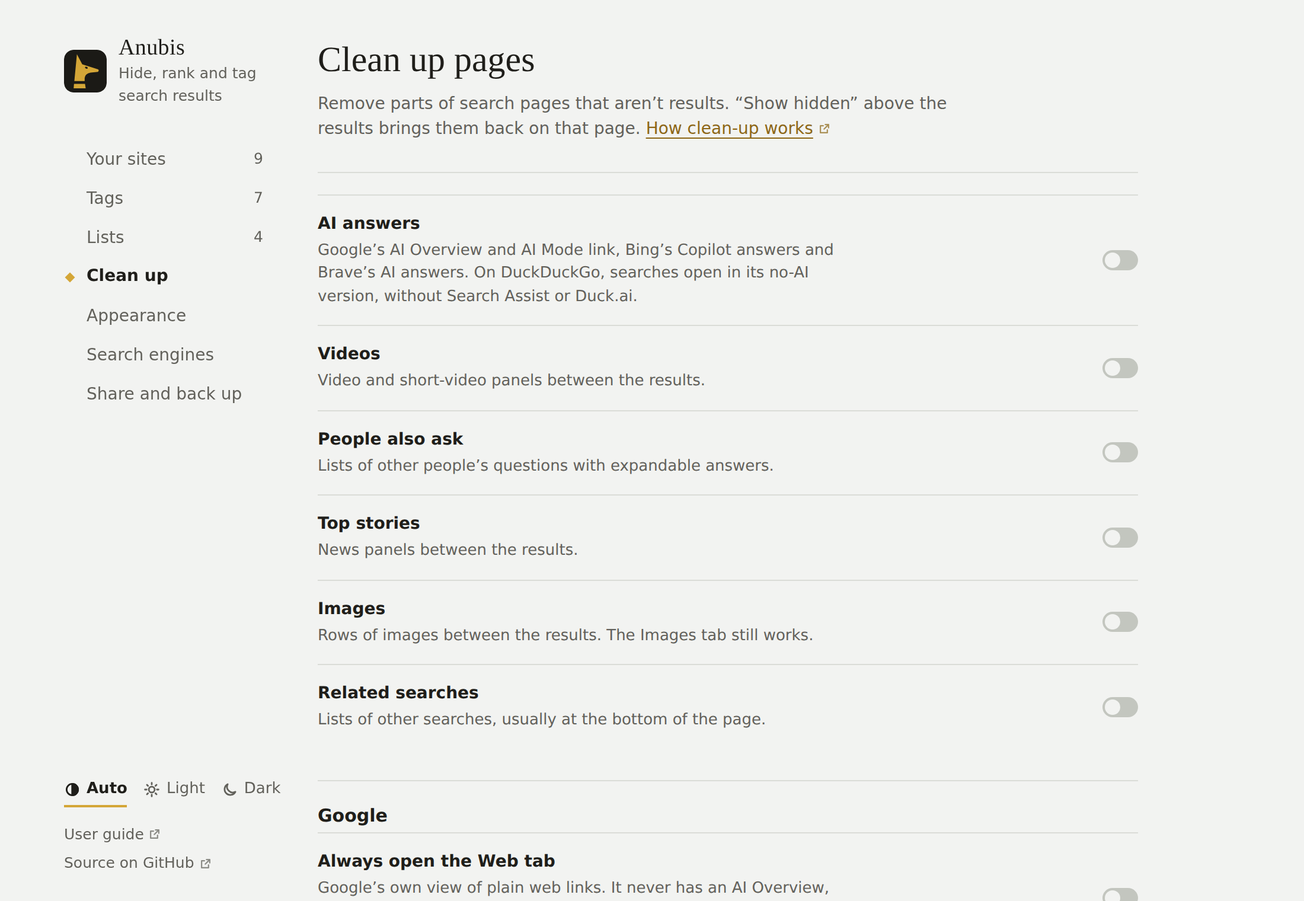
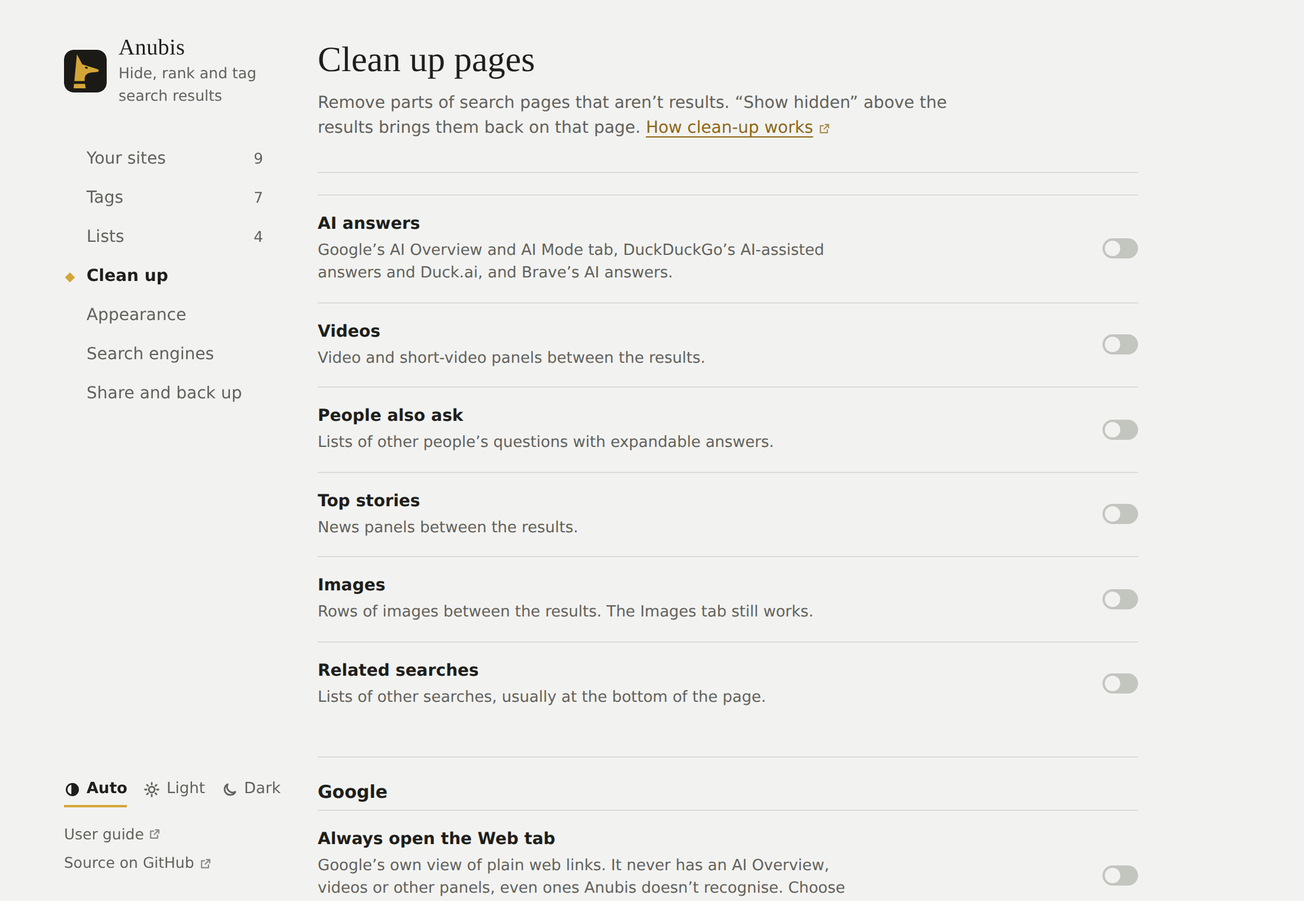
Remove DuckDuckGo's AI answer on the page instead of opening its no-AI version
Keeps people on duckduckgo.com with their settings and saves a second page load. Duck.ai's tab, links and button go like Google's AI Mode tab.

diff --git a/entrypoints/content/cleanup.ts b/entrypoints/content/cleanup.ts
@@ -1,4 +1,4 @@
-import { CLEANUP_SELECTORS, cleanupKindFor, cleanupMarkerFor, type Cleanup, type CleanupKind } from '@/utils/cleanup';
+import { AI_ENTRY_POINTS, CLEANUP_SELECTORS, cleanupKindFor, cleanupMarkerFor, type Cleanup, type CleanupKind } from '@/utils/cleanup';
 import type { EngineDef } from '@/utils/engines';
 import type { FoundResult } from './results';
 
@@ -12,6 +12,9 @@ export interface Clutter {
 const HEADINGS = 'h1, h2, h3, h4, h5, [role="heading"]';
 /** Where a label or marker text can't belong to a block that clean-up removes. */
 const NOT_A_BLOCK = '[data-anubis-result], anubis-summary, header, nav, [role="navigation"], form[role="search"], a, button, script, style, noscript, template, textarea, select, option';
+/** What a tab or button to an AI chat can be, and the item in a row of them that holds one. */
+const CONTROL = 'a, button, [role="link"], [role="button"], [role="tab"], [role="option"], [role="menuitem"]';
+const ROW_ITEM = '[role="listitem"], [role="tab"], [role="option"], [role="menuitem"], li';
 
 /**
  * Blocks in the results column to remove, found three ways and then widened to the
@@ -80,11 +83,21 @@ export function findClutter(engine: EngineDef, results: FoundResult[], wanted: C
     }
   }
 
-  // Google's "AI Mode" tab, next to All, Images and News.
-  if (wanted.ai && engine.id === 'google') {
-    for (const link of document.querySelectorAll<HTMLElement>('a, [role="link"], [role="tab"]')) {
-      if (link.closest('[data-anubis-result]') || !/^AI Mode$/i.test((link.textContent ?? '').trim())) continue;
-      add(link.closest<HTMLElement>('[role="listitem"]') ?? link, 'ai', true);
+  // Tabs and buttons that open an AI chat: Google's "AI Mode" beside All and
+  // Images, DuckDuckGo's Duck.ai. The tab's item in its row goes too, when it
+  // holds little more than the tab.
+  const entry = AI_ENTRY_POINTS[engine.id];
+  if (wanted.ai && entry) {
+    const named = (el: HTMLElement) =>
+      entry.labels.test(el.title.trim()) ||
+      entry.labels.test(el.getAttribute('aria-label')?.trim() ?? '') ||
+      (el.matches(CONTROL) && entry.labels.test((el.textContent ?? '').trim()));
+    for (const el of document.querySelectorAll<HTMLElement>(`${CONTROL}, [title], [aria-label]`)) {
+      if (!(entry.selector && el.matches(entry.selector)) && !named(el)) continue;
+      if (el.closest('[data-anubis-result], anubis-summary')) continue;
+      const control = el.closest<HTMLElement>(CONTROL) ?? el;
+      const item = control.parentElement?.closest<HTMLElement>(ROW_ITEM);
+      add(item && textLength(item) <= textLength(control) + 12 ? item : control, 'ai', true);
     }
   }
 
@@ -224,19 +237,10 @@ function safeToRemove(block: HTMLElement, column: Column, searchBox: Element | n
 const WEB_TAB_KEY = 'anubis:all-tab';
 
 /**
- * Where to send this page instead, or undefined. "AI answers" opens DuckDuckGo's
- * no-AI version; "Always open the Web tab" adds Google's `udm=14`, unless you
- * chose the All tab for this search.
+ * Where to send this page instead, or undefined: "Always open the Web tab" adds
+ * Google's `udm=14`, unless you chose the All tab for this search.
  */
-export function redirectFor(engine: EngineDef, url: URL, cleanup: Cleanup, googleWebTab: boolean): string | undefined {
-  if (engine.id === 'duckduckgo' && cleanup.ai && url.hostname !== 'noai.duckduckgo.com' && engine.isResultsPage(url)) {
-    const next = new URL(url);
-    next.hostname = 'noai.duckduckgo.com';
-    // safe.duckduckgo.com always has strict safe search; keep it, with DuckDuckGo's
-    // own parameter for it, unless the search already chose a level.
-    if (url.hostname === 'safe.duckduckgo.com' && !next.searchParams.has('kp')) next.searchParams.set('kp', '1');
-    return next.href;
-  }
+export function redirectFor(engine: EngineDef, url: URL, googleWebTab: boolean): string | undefined {
   if (engine.id === 'google' && googleWebTab && url.pathname === '/search' && !url.searchParams.has('udm') && !url.searchParams.has('tbm')) {
     let chosen: string | null = null;
     try {

diff --git a/tests/cleanup.test.ts b/tests/cleanup.test.ts
@@ -1,6 +1,6 @@
 import { describe, expect, it } from 'vitest';
 import { redirectFor } from '@/entrypoints/content/cleanup';
-import { cleanupKindFor, cleanupMarkerFor, describeRemoved, NO_CLEANUP } from '@/utils/cleanup';
+import { AI_ENTRY_POINTS, cleanupKindFor, cleanupMarkerFor, describeRemoved, NO_CLEANUP } from '@/utils/cleanup';
 import { ENGINES } from '@/utils/engines';
 import type { PageStats } from '@/utils/messages';
 import { getSettings, settingsItem } from '@/utils/storage';
@@ -58,31 +58,26 @@ describe('summary with clean-up', () => {
 });
 
 describe('clean-up redirects', () => {
-  it('sends DuckDuckGo searches to its no-AI version when AI answers are removed', () => {
-    const url = new URL('https://duckduckgo.com/?q=anubis&ia=web');
-    expect(redirectFor(engine('duckduckgo'), url, { ...NO_CLEANUP, ai: true }, false)).toBe('https://noai.duckduckgo.com/?q=anubis&ia=web');
-    expect(redirectFor(engine('duckduckgo'), url, NO_CLEANUP, false)).toBeUndefined();
-    expect(redirectFor(engine('duckduckgo'), new URL('https://noai.duckduckgo.com/?q=anubis'), { ...NO_CLEANUP, ai: true }, false)).toBeUndefined();
+  it('leaves DuckDuckGo where it is, with its settings: AI answers are removed on the page', () => {
+    for (const url of ['https://duckduckgo.com/?q=anubis&ia=web', 'https://safe.duckduckgo.com/?q=anubis', 'https://start.duckduckgo.com/?q=anubis']) {
+      expect(redirectFor(engine('duckduckgo'), new URL(url), true)).toBeUndefined();
+    }
   });
 
-  it('opens the no-AI version from DuckDuckGo’s other addresses, keeping safe.’s strict safe search', () => {
-    const ai = { ...NO_CLEANUP, ai: true };
-    const ddg = engine('duckduckgo');
-    expect(redirectFor(ddg, new URL('https://start.duckduckgo.com/?q=anubis'), ai, false)).toBe('https://noai.duckduckgo.com/?q=anubis');
-    expect(redirectFor(ddg, new URL('https://safe.duckduckgo.com/?q=anubis'), ai, false)).toBe('https://noai.duckduckgo.com/?q=anubis&kp=1');
-    expect(redirectFor(ddg, new URL('https://safe.duckduckgo.com/?q=anubis&kp=-1'), ai, false)).toBe('https://noai.duckduckgo.com/?q=anubis&kp=-1');
-    // The home page isn't a search.
-    expect(redirectFor(ddg, new URL('https://safe.duckduckgo.com/'), ai, false)).toBeUndefined();
+  it('knows the AI chat tabs and buttons by name', () => {
+    expect(AI_ENTRY_POINTS.google!.labels.test('AI Mode')).toBe(true);
+    for (const name of ['Duck.ai', 'Ask Duck.ai', 'Search Assist']) expect(AI_ENTRY_POINTS.duckduckgo!.labels.test(name), name).toBe(true);
+    for (const name of ['Duck.ai settings', 'DuckDuckGo', 'All']) expect(AI_ENTRY_POINTS.duckduckgo!.labels.test(name), name).toBe(false);
   });
 
   it('opens Google’s Web tab only from the All tab', () => {
     const google = engine('google');
-    expect(redirectFor(google, new URL('https://www.google.com/search?q=anubis'), NO_CLEANUP, true)).toBe(
+    expect(redirectFor(google, new URL('https://www.google.com/search?q=anubis'), true)).toBe(
       'https://www.google.com/search?q=anubis&udm=14',
     );
-    expect(redirectFor(google, new URL('https://www.google.com/search?q=anubis&udm=2'), NO_CLEANUP, true)).toBeUndefined();
-    expect(redirectFor(google, new URL('https://www.google.com/search?q=anubis&tbm=nws'), NO_CLEANUP, true)).toBeUndefined();
-    expect(redirectFor(google, new URL('https://www.google.com/search?q=anubis'), NO_CLEANUP, false)).toBeUndefined();
+    expect(redirectFor(google, new URL('https://www.google.com/search?q=anubis&udm=2'), true)).toBeUndefined();
+    expect(redirectFor(google, new URL('https://www.google.com/search?q=anubis&tbm=nws'), true)).toBeUndefined();
+    expect(redirectFor(google, new URL('https://www.google.com/search?q=anubis'), false)).toBeUndefined();
   });
 });
 

diff --git a/utils/cleanup.ts b/utils/cleanup.ts
@@ -33,7 +33,7 @@ export const CLEANUP: CleanupDef[] = [
   {
     id: 'ai',
     label: 'AI answers',
-    hint: 'Google’s AI Overview and AI Mode tab, and Brave’s AI answers. On DuckDuckGo, searches open in its no-AI version, without Search Assist or Duck.ai.',
+    hint: 'Google’s AI Overview and AI Mode tab, DuckDuckGo’s AI-assisted answers and Duck.ai, and Brave’s AI answers.',
     one: 'an AI answer',
     many: 'AI answers',
     headings: [
@@ -125,12 +125,28 @@ export const CLEANUP: CleanupDef[] = [
 /**
  * Selectors for blocks a heading can't identify, per engine. The block is the
  * element itself, or the results-column block around it. These come from
- * community filter lists. Google's `.M8OgIe` and `.YzCcne` were seen on live
- * pages (2026-09-29); the rest haven't been checked.
+ * community filter lists (DuckDuckGo's from EasyList's AI list). Google's
+ * `.M8OgIe` and `.YzCcne` were seen on live pages (2026-09-29); the rest haven't
+ * been checked.
  */
 export const CLEANUP_SELECTORS: Record<string, Partial<Record<CleanupKind, string>>> = {
   google: { ai: '[data-attrid="AIOverview"], .M8OgIe, .YzCcne', questions: '.related-question-pair' },
+  duckduckgo: { ai: '[data-testid="duckassist-answer-content"], [data-react-module-id="wikinlp"]' },
   brave: { ai: '#summarizer' },
+};
+
+/**
+ * Tabs, links and buttons that open an engine's AI chat: Google's AI Mode,
+ * DuckDuckGo's Duck.ai. They go with AI answers but aren't counted, since they
+ * aren't content. Found by their whole text, title or label, or by selectors
+ * from EasyList's AI list where there may be no label.
+ */
+export const AI_ENTRY_POINTS: Record<string, { labels: RegExp; selector?: string }> = {
+  google: { labels: /^AI Mode$/i },
+  duckduckgo: {
+    labels: /^((Ask )?Duck\.ai|Search Assist)$/i,
+    selector: 'a[href*="ia=chat"], [data-testid="aichat-button"], [data-ssg-id="ai-searchbox-chat-submit"], [data-ssg-id="ask-duck-ai-submit"]',
+  },
 };
 
 const normalize = (text: string) => text.replace(/\s+/g, ' ').trim().toLowerCase();

diff --git a/entrypoints/content/index.ts b/entrypoints/content/index.ts
@@ -47,12 +47,11 @@ export default defineContentScript({
       return;
     }
 
-    // Clean-up that works by sending the page elsewhere: DuckDuckGo's no-AI version,
-    // Google's Web tab. Checked again on each pass, as both engines can change the
-    // search without reloading.
+    // Clean-up that works by sending the page elsewhere: Google's Web tab. Checked
+    // again on each pass, as Google can change the search without reloading.
     const redirected = () => {
       if (!rules.settings.enabled || rules.settings.engines[engine.id] === false) return false;
-      const to = redirectFor(engine, new URL(location.href), rules.settings.cleanup, rules.settings.googleWebTab);
+      const to = redirectFor(engine, new URL(location.href), rules.settings.googleWebTab);
       if (!to || to === location.href) return false;
       location.replace(to);
       return true;

diff --git a/docs/experiments.md b/docs/experiments.md
@@ -23,7 +23,7 @@ Checked on live pages on 2026-09-29, with the Chrome build loaded in automated (
 - **Results and redirects:** every engine that loaded found all its results, put the button on each, and applied the test list correctly, which means redirect links resolved to the real site: DuckDuckGo HTML and Lite, Bing's `/ck/a`, Yahoo's `/RU=`, and Startpage, Ecosia and Brave's direct links.
 - **Load more results worked** on DuckDuckGo (11 results to 26, by pressing `#more-results`) and Brave (20 to 40, `offset=1`, which matches Brave's own Next link).
 - **Load more results failed without saying why** on Bing, Ecosia and Yahoo. Their next-page selectors and parameters are right (Bing's Next link is `a.sb_pagN` with `first=11`, Ecosia's is `p=1`, Yahoo's is `a.next`), but the page Anubis fetches came back as a bot check: Bing's Turnstile page ("One last step", status 200, so it parses as a page with no results), Ecosia's Cloudflare firewall (403, and navigating to page 2 directly was challenged too), and Yahoo redirecting to a `_bv/v.gif` beacon (500). A 200 challenge page looks the same as the last page of results, so the button just disappears. **To do:** recognise an empty or challenged page and say so in the summary ("Bing asked to confirm you're not a robot"), and check these three engines again in an everyday browser.
-- **DuckDuckGo loses your settings on its no-AI version.** DuckDuckGo stores settings as cookies for `duckduckgo.com` only: changing the region set `l=uk-en` on `duckduckgo.com`, and `noai.duckduckgo.com` went back to the region its location suggests. So "AI answers" quietly resets region, theme and the rest. **To do:** carry the settings over, for example as DuckDuckGo's documented URL parameters (`kl`, `kae`…), which share the cookies' names.
+- **DuckDuckGo loses your settings on its no-AI version.** DuckDuckGo stores settings as cookies for `duckduckgo.com` only: changing the region set `l=uk-en` on `duckduckgo.com`, and `noai.duckduckgo.com` went back to the region its location suggests. So "AI answers" quietly reset region, theme and the rest. **Resolved (2026-09-29):** Anubis no longer sends DuckDuckGo searches there; see "DuckDuckGo stays put" under Clean up pages.
 - **DuckDuckGo's Wikipedia panel** (`li[data-layout="about"]`, in the results list) counts as a result, linked to Wikipedia. Hiding wikipedia.org hides it. That seems reasonable, but it's a panel, not a result.
 - **Brave's AI answer** is `#llm-snippet` inside `#mixed-top`, not `#summarizer` (which wasn't on the page). It has no heading; clean-up removed it through its disclaimer, "AI-generated answer. Please verify critical facts.", which starts with the `AI-generated answer` marker.
 - **Bing's AI answer is not removed.** It is `li.b_ans.b_top` at the top of `#b_results`, with the answer in `.cht_container` and a `.cht_disclaimer` element. Its only label is `aria-label="AI Overview"`, which clean-up doesn't read, and its visible `h2` is the answer's first sentence. It didn't appear for every query. **To do:** accept `aria-label` text as a label, or add `.cht_container` to Bing's selectors.
@@ -45,6 +45,7 @@ Clean-up on Google, confirmed from a live results page on 2026-09-29 (the troubl
 
 Still to check for clean-up:
 
+- DuckDuckGo: the AI answer (`[data-testid="duckassist-answer-content"]` in the results list's first item, or the `wikinlp` module) and the Duck.ai tab, links and search-box button (`ia=chat` links, `[data-testid="aichat-button"]`, `[data-ssg-id="ai-searchbox-chat-submit"]`). These come from EasyList's AI list, not a live page: this environment's network policy blocks DuckDuckGo.
 - Google: that "AI Overview", "Videos", "People also ask", "Top stories" and "Related searches" are still headings (`h1`–`h4` or `role="heading"`) at the top of their blocks, and that the blocks sit in `#rso`, `#botstuff` or the `role="main"` column. That the AI Mode tab is a link with that exact text in a `role="navigation"` or `role="list"` element. That choosing All from the Web tab lands on a `/search` URL without `udm`, so Anubis leaves it alone.
 - The selectors `[data-attrid="AIOverview"]` and `.related-question-pair` (Google) come from community filter lists. `#summarizer` (Brave) wasn't on the page on 2026-09-29; see above. DuckDuckGo's settings on `noai.` and Bing's and Brave's AI answers were checked on 2026-09-29, above.
 
@@ -133,8 +134,9 @@ Asked for: a global option to force-remove AI answers (Gemini's AI Overview, Duc
 
 - **Tried first, rejected:** class-name selectors from community uBlock filter lists (for example `.M8OgIe`, `.hdzaWe` and `[data-mcpr]` for Google's AI Overview). They are the usual approach, but the lists warn that Google rotates these names, the problem the README describes for results.
 - **Shipped:** blocks are found from their visible heading ("AI Overview", "Videos", "People also ask"…, matched whole and ignoring case, with common translations in `utils/cleanup.ts`), then widened to the block in the results column. The column is the results' own list, the engine's boundary (`#rso`, `role="main"`…), or an element inside that boundary which also holds results. A heading that never reaches the column, like "Images" in Google's side panel, is left alone, and a block that contains a result or the search box is never removed. When the heading's block sits next to another heading of the same or higher level, only that section goes: "Images" inside a panel in the column removes the image row, not the panel. A first version of that rule stopped before checking the column and removed the side panel's image row too; the `cleanup` e2e part covers both. A few selectors from filter lists back the headings up where a heading isn't enough.
-- **Forcing it:** removing an element after the engine renders it can always be outrun by a redesign, so the switches that stop AI answers at the source are used too. "AI answers" sends DuckDuckGo searches to `noai.duckduckgo.com`, DuckDuckGo's own no-AI version, which has no Search Assist or Duck.ai. For Google, "Always open the Web tab" adds `udm=14`, Google's own filter for plain web links (the Web tab under More). It's a separate switch because it also drops everything else that isn't a link. Choosing All from the Web tab is remembered for that search in the tab's `sessionStorage`, so it isn't bounced straight back.
-- **DuckDuckGo's other addresses (2026-09-29):** the redirect only ran on `duckduckgo.com`, although `start.` and `safe.` are the same engine. Both now open the no-AI version too. `safe.duckduckgo.com` always uses strict safe search, which `noai.` wouldn't know about, so the redirect adds `kp=1`, DuckDuckGo's documented parameter for it, unless the search already sets `kp`. Not yet checked on the live `noai.` page.
+- **Forcing it:** removing an element after the engine renders it can always be outrun by a redesign, so the switches that stop AI answers at the source are used too. "AI answers" sent DuckDuckGo searches to `noai.duckduckgo.com`, DuckDuckGo's own no-AI version, which has no Search Assist or Duck.ai (dropped later; see "DuckDuckGo stays put"). For Google, "Always open the Web tab" adds `udm=14`, Google's own filter for plain web links (the Web tab under More). It's a separate switch because it also drops everything else that isn't a link. Choosing All from the Web tab is remembered for that search in the tab's `sessionStorage`, so it isn't bounced straight back.
+- **Tried the same day, then dropped:** the redirect only ran on `duckduckgo.com`, so `start.` and `safe.` were sent too, with `kp=1` (DuckDuckGo's documented strict safe search parameter) for `safe.`, which `noai.` wouldn't otherwise know about.
+- **DuckDuckGo stays put (2026-09-29):** the redirect cost more than it saved. DuckDuckGo keeps its settings in cookies for `duckduckgo.com` only, so `noai.` reset region, theme and safe search; every search loaded twice; and the address changed under people. DuckDuckGo documents URL parameters for its settings but none for AI (checked its `settings/params.md`), and carrying settings over would mean reading undocumented cookie names. So "AI answers" now removes DuckDuckGo's AI answer on the page, like Google's and Brave's: by its "Search Assist" label where there is one, and by EasyList's selectors (`duckassist-answer-content`, the `wikinlp` module). Duck.ai's tab, links and search-box button go the way Google's AI Mode tab does, and like it aren't counted, since they aren't content (`AI_ENTRY_POINTS` in `utils/cleanup.ts`: whole-text, title or label matches, plus EasyList's selectors). A tab's item in its row goes too when it holds little more than the tab. The `ai=1` DuckDuckGo mock models all of it, and its check failed on the previous build, which left for `noai.`. `noai.duckduckgo.com` itself still works with Anubis for anyone who opens it.
 - **Not used:** a `noai=1` URL parameter for DuckDuckGo, mentioned by one blog but not in DuckDuckGo's documented parameters (`duckduckgo-help-pages/_docs/settings/params.md`). Brave's `summary=0` parameter, which Brave community threads report no longer works. A `declarativeNetRequest` rule that rewrites Google URLs before the page loads: it's faster, but it needs a new permission, and the redirect from the content script is quick enough.
 - **Bug found in use:** "AI answers" didn't remove Google's AI Overview. Only heading elements were read as labels, but the label can be a plain `div` beside an icon, and an icon's `<title>` adds text that breaks an exact match. The guard against removing the search box also refused any block with a `q` field, which a follow-up box inside the Overview may have. Now any short text node that is a label counts, as does text only an AI answer has ("AI responses may include mistakes"), selectors from community filter lists (`.M8OgIe`, `.YzCcne`) back them up, and only the page's first search box is protected. An `aiLabel` Google mock covers this; the previous build removes nothing on it. Google's real markup is still unconfirmed; the troubleshooting page asks for its structure (tags, classes and roles, no text).
 - **Bug found in use:** "Videos" removed only the heading above a video panel. Each video has a title heading in a link, so Anubis took the videos for results, and clean-up refused to remove a block containing results. Worse, the sitelink rule merged the videos into one "result" (they share a site), which swallowed the panel's heading too. Now only the main list of results (the list holding the most) is protected, results inside a removed panel go with it and leave the summary's counts, and sitelinks are only merged under a result that shows its address, which videos don't. The `aiLabel` Google mock has such a panel; the previous build leaves it in place.

diff --git a/docs/guide/troubleshooting.md b/docs/guide/troubleshooting.md
@@ -21,14 +21,14 @@ Please don't attach a saved copy of the page. Search pages include your account 
 
 Chrome hides new extensions behind the puzzle-piece icon in the toolbar. Open it and pin Anubis.
 
-## AI answers or panels still show on Google
+## AI answers or panels still show
 
-Check that the switch in **Settings → Clean up** is on; they all start off. If it is and Google's AI Overview, video panel or another panel still shows (or only its heading goes), Google has probably changed how it's built. **Settings → Clean up → Always open the Web tab** removes all of them for certain in the meantime.
+Check that the switch in **Settings → Clean up** is on; they all start off. If it is and an AI answer, a video panel or another panel still shows (or only its heading goes), the search engine has probably changed how it's built. On Google, **Settings → Clean up → Always open the Web tab** removes all of them for certain in the meantime.
 
 To help fix it, open the browser's console on that results page (<kbd>F12</kbd>, then **Console**), paste this and press <kbd>Enter</kbd>:
 
 ```js
-copy([...document.querySelectorAll('body *')].filter((el) => [...el.childNodes].some((n) => n.nodeType === 3 && /^\s*(AI Overview|AI Mode|Videos|Short videos|People also ask|Top stories)\s*$/i.test(n.nodeValue))).map((el) => { const chain = []; for (let a = el; a && a !== document.body; a = a.parentElement) chain.push(a.tagName.toLowerCase() + (a.id ? '#' + a.id : '') + (typeof a.className === 'string' && a.className.trim() ? '.' + a.className.trim().split(/\s+/).join('.') : '') + (a.getAttribute('role') ? `[role=${a.getAttribute('role')}]` : '') + [...a.attributes].filter((x) => x.name.startsWith('data-')).map((x) => `[${x.name}]`).join('')); return chain.join(' < '); }).join('\n\n'));
+copy([...document.querySelectorAll('body *')].filter((el) => [...el.childNodes].some((n) => n.nodeType === 3 && /^\s*(AI Overview|AI Mode|Search Assist|Duck\.ai|Videos|Short videos|People also ask|Top stories)\s*$/i.test(n.nodeValue))).map((el) => { const chain = []; for (let a = el; a && a !== document.body; a = a.parentElement) chain.push(a.tagName.toLowerCase() + (a.id ? '#' + a.id : '') + (typeof a.className === 'string' && a.className.trim() ? '.' + a.className.trim().split(/\s+/).join('.') : '') + (a.getAttribute('role') ? `[role=${a.getAttribute('role')}]` : '') + [...a.attributes].filter((x) => x.name.startsWith('data-')).map((x) => `[${x.name}]`).join('')); return chain.join(' < '); }).join('\n\n'));
 ```
 
 It copies the structure around those panels' headings: element names, classes and roles, no text from the page. Paste it into [a new issue](https://github.com/Bishop-V/anubis/issues).
@@ -36,10 +36,6 @@ It copies the structure around those panels' headings: element names, classes an
 ## Google always opens the Web tab
 
 That's **Settings → Clean up → Always open the Web tab**. Choose **All** above the results to see the usual page for one search, or turn the switch off.
-
-## DuckDuckGo moved to noai.duckduckgo.com
-
-That's **Settings → Clean up → AI answers**, which sends DuckDuckGo searches to DuckDuckGo's own version without AI features. Turn it off to stay on `duckduckgo.com`.
 
 ## A list won't update or subscribe
 

diff --git a/ROADMAP.md b/ROADMAP.md
@@ -4,10 +4,9 @@ Work that's planned but not started, or started and not finished. Each item says
 
 ## Before the first store release
 
-- **Check live pages.** Everything on search pages was built against mocks. Work through "Still unverified" in `docs/experiments.md`. Done on 2026-09-29 for DuckDuckGo (all three versions), Bing, Brave, Startpage, Ecosia and Yahoo. Left: Kagi, Yandex and Mojeek (they showed automated Chromium a human check), Load more results on Bing, Ecosia and Yahoo in an everyday browser, and Google's phone layout.
+- **Check live pages.** Everything on search pages was built against mocks. Work through "Still unverified" in `docs/experiments.md`. Done on 2026-09-29 for DuckDuckGo (all three versions), Bing, Brave, Startpage, Ecosia and Yahoo. Left: Kagi, Yandex and Mojeek (they showed automated Chromium a human check), Load more results on Bing, Ecosia and Yahoo in an everyday browser, Google's phone layout, and DuckDuckGo's AI answer and Duck.ai buttons, which are now removed on the page (their selectors come from EasyList's AI list).
 - **Fix what the live check found** (details in `docs/experiments.md`, 2026-09-29). For each, model the live markup in `e2e/fixtures.mjs` and confirm the check fails before fixing:
   - *Load more results stops without saying why.* On Bing, Ecosia and Yahoo the fetched page came back as a bot check, and Bing's (status 200) reads as a last page with no results. In `fetchNext` (`entrypoints/content/deeper.ts`), recognise a page with no results, or a challenge, and set an error the summary shows ("Bing asked to confirm you're not a robot. Open the next page instead.").
-  - *DuckDuckGo loses your settings on its no-AI version.* Its settings cookies are set for `duckduckgo.com` only, so the redirect to `noai.duckduckgo.com` (`entrypoints/content/cleanup.ts`) resets region, theme and the rest. Carry them over as DuckDuckGo's URL parameters, which share the cookies' names (`kl`, `kae`…).
   - *Bing's AI answer stays.* It's `li.b_ans.b_top` with `.cht_container`, labelled only by `aria-label="AI Overview"`. Read `aria-label` as a label, or add `.cht_container` to Bing in `CLEANUP_SELECTORS` (`utils/cleanup.ts`).
   - *Bing's video panel stays.* Its heading is "Videos of <search>": add `Videos of ` to the videos kind's `prefixes`.
   - *Brave's AI selector is out of date.* The block is `#llm-snippet`, not `#summarizer`. It's removed anyway through its disclaimer, so this is only a backup; update the selector.

diff --git a/README.md b/README.md
@@ -14,7 +14,7 @@ In Egyptian myth, Anubis weighed each heart against a feather. This extension we
 - **Your list is a list too.** Every site you rank is stored in the same format, so you can download it and publish it for others.
 - **Bring your old lists.** Paste uBlacklist rules, a HOHSER export or a Goggle into Settings → Share and back up to move your sites over.
 - **Filter by tag.** The summary above the results lists the tags on the page; click one to see only those results.
-- **Clean up pages.** Remove AI answers (Google's AI Overview, Brave's AI answers, and DuckDuckGo's Search Assist and Duck.ai by opening its no-AI version), video panels, "People also ask", top stories, image rows and related searches, on every search (Bing's AI answer and video panel aren't recognised yet). Google can also always open its plain Web tab. "Show hidden" brings removed parts back on that page.
+- **Clean up pages.** Remove AI answers (Google's AI Overview and AI Mode tab, DuckDuckGo's AI-assisted answers and Duck.ai buttons, and Brave's AI answers), video panels, "People also ask", top stories, image rows and related searches, on every search (Bing's AI answer and video panel aren't recognised yet). Google can also always open its plain Web tab. "Show hidden" brings removed parts back on that page.
 - **Quiet on the page.** Hidden results leave the page (or collapse to one line, if you prefer); the summary above the results is one sentence. Light and dark themes follow the search engine or your choice.
 - **Keyboard shortcuts.** Alt+Shift+O turns Anubis on or off, and Alt+Shift+H shows hidden results (Control instead of Alt on a Mac).
 

diff --git a/docs/guide/clean-up.md b/docs/guide/clean-up.md
@@ -6,7 +6,7 @@ Search pages carry a lot that isn't results: AI answers, video panels, "People a
 
 | Switch | What it removes |
 | --- | --- |
-| **AI answers** | Google's AI Overview and its AI Mode tab, Brave's AI answers. On DuckDuckGo, searches open in its no-AI version instead (see below). |
+| **AI answers** | Google's AI Overview and its AI Mode tab, DuckDuckGo's AI-assisted answers and its Duck.ai tab and buttons, Brave's AI answers. |
 | **Videos** | Video and short-video panels between the results. |
 | **People also ask** | Lists of other people's questions with expandable answers. |
 | **Top stories** | News panels between the results. |
@@ -31,7 +31,6 @@ Headings are recognised in English and some common translations (French, German,
 
 ## Stopping AI answers at the source
 
-Removing a panel after the engine sends it depends on recognising it. Two engines have their own switch for a page without AI, and Anubis uses them:
+Removing a panel after the engine sends it depends on recognising it. Google has its own view without AI, and Anubis can use it:
 
-- **DuckDuckGo:** with **AI answers** on, searches open on `noai.duckduckgo.com`, DuckDuckGo's own version without Search Assist or Duck.ai.
 - **Google:** **Always open the Web tab** opens Google's own "Web" view (the one under **More → Web**), which shows plain links with no AI Overview and no panels at all. This is a separate switch because it removes everything that isn't a link, including panels you might want. To see the usual page for one search, choose **All** above the results.

diff --git a/CLAUDE.md b/CLAUDE.md
@@ -53,7 +53,7 @@ Everything on search pages was built against the mocks in `e2e/fixtures.mjs`: th
   - `results.ts`: finding results, structurally (title heading → link → smallest single-result ancestor) or by selector, and resolving redirect links to the real URL
   - `ui.ts` + `shadow.css`: tags under titles, the ⇅ button on each result and its menu, hidden-result lines, the summary; all in closed shadow roots
   - `deeper.ts`: "Load more results", bringing later result pages onto the current one
-  - `cleanup.ts`: finding the blocks that clean-up removes (AI answers, video panels…), and its redirects (DuckDuckGo's no-AI version, Google's Web tab)
+  - `cleanup.ts`: finding the blocks that clean-up removes (AI answers, video panels…), and its redirect to Google's Web tab
   - `page.css`: page-level treatments keyed off `data-anubis-*` attributes (hidden, lowered, pinned, highlight, rerank)
 - `entrypoints/subscribe.content.ts`: runs only on the guide's subscribe page (`…/anubis/subscribe?url=…&name=…`, where subscribe links lead) and asks the background to open Settings → Lists with that list filled in. Settings asks before subscribing: anyone can make a link.
 - `entrypoints/background.ts`: list updates (on startup and when a search page asks, at most every 30 minutes), the toolbar badge, the grey icon while Anubis is off (`public/icon-off/`), and opening the welcome page on first install

diff --git a/docs/guide/privacy.md b/docs/guide/privacy.md
@@ -14,7 +14,6 @@ Only these:
 - **The lists you subscribe to**, from wherever they're hosted, to check for new versions once a day, or less often when a list says so (Anubis's own lists: once a week). This starts when you install Anubis, because it subscribes you to four lists of its own, hosted on GitHub. You can turn them off under **Settings → Lists**.
 - **The directory of lists** on GitHub, when you open **Settings → Lists**, so **More lists** shows the newest ones.
 - **The search engine you're on**, for [Load more results](./more-results.md), which loads its next page like the "Next" link would.
-- **`noai.duckduckgo.com`**, if [AI answers](./clean-up.md) are removed, because DuckDuckGo searches open there. On Google, the Web tab option adds `udm=14` to the search's address.
 - **Issue trackers**, when you choose "Report it to…" or "Suggest it to…". That opens a page in a new tab, with the result's address (without anything after `?`, which can carry details of your visit) and the rule that matched; nothing is sent unless you submit the issue yourself.
 
 Downloading a list works like any other download: the site hosting it sees your IP address and which file was asked for. Anubis sends nothing else with it: no cookies, no identifier, and nothing about your searches.
